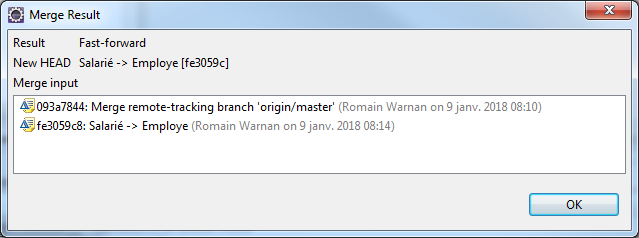
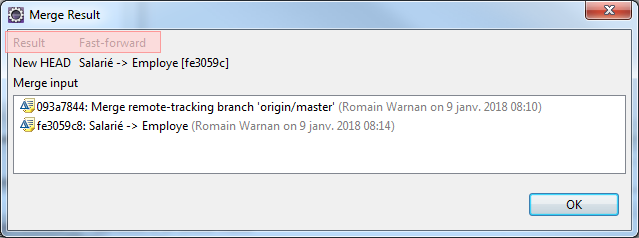
EGit, fusion de branche --ff

Changed region(s): [[0.0, 0.1176, 0.2379, 0.2353]]

diff --git a/docs/diaporama/04-branches.md b/docs/diaporama/04-branches.md
@@ -210,6 +210,45 @@ git branch -d nom-branche
 ```
 
 
+%%%
+
+
+<!-- .slide: data-background-image="images/eclipse-logo.png" data-background-size="700px" class="slide" -->
+### Fusionner une branche locale en avance rapide (1)
+
+Se positionner sur la branche de destination (souvent, *master*)
+<div class="center">
+    <img src="egit/merge-branch-ff-0.png" class="boxed-img" />
+</div>
+
+
+%%%
+
+
+<!-- .slide: data-background-image="images/eclipse-logo.png" data-background-size="700px" class="slide" -->
+### Fusionner une branche locale en avance rapide (2)
+
+Choisir la branche à fusionner
+<div class="center">
+    <img src="egit/merge-branch-ff-1.png" class="boxed-img" />
+</div>
+
+
+%%%
+
+
+<!-- .slide: data-background-image="images/eclipse-logo.png" data-background-size="700px" class="slide" -->
+### Fusionner une branche locale en avance rapide (3)
+
+Dans ce cas, la fusion est en avance rapide
+
+ - c’est le cas le plus simple
+ - il n’y a pas de *commit* de fusion
+
+<div class="center">
+    <img src="egit/merge-branch-ff-2.png" class="boxed-img" />
+</div>
+
 ===
 
 
